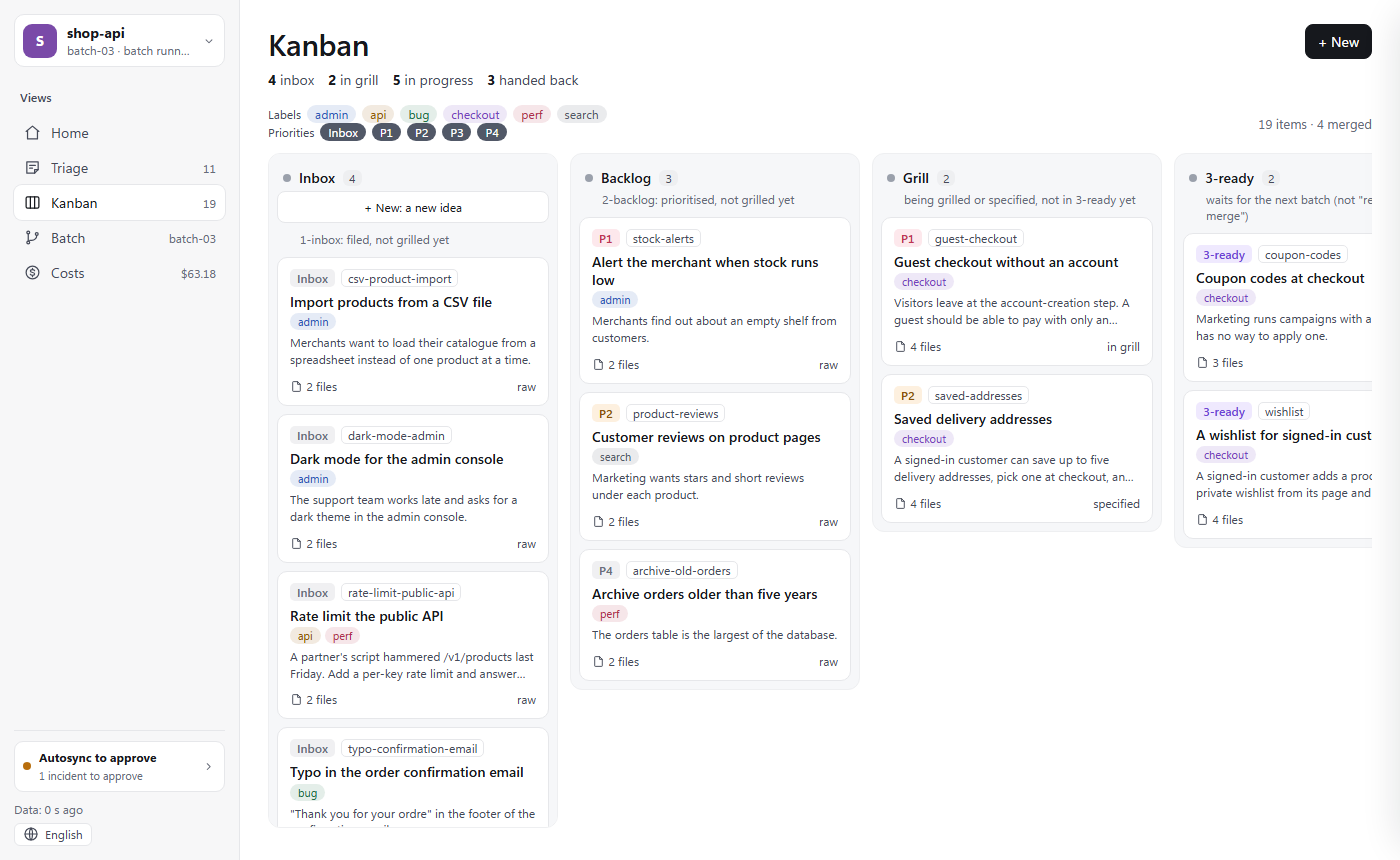
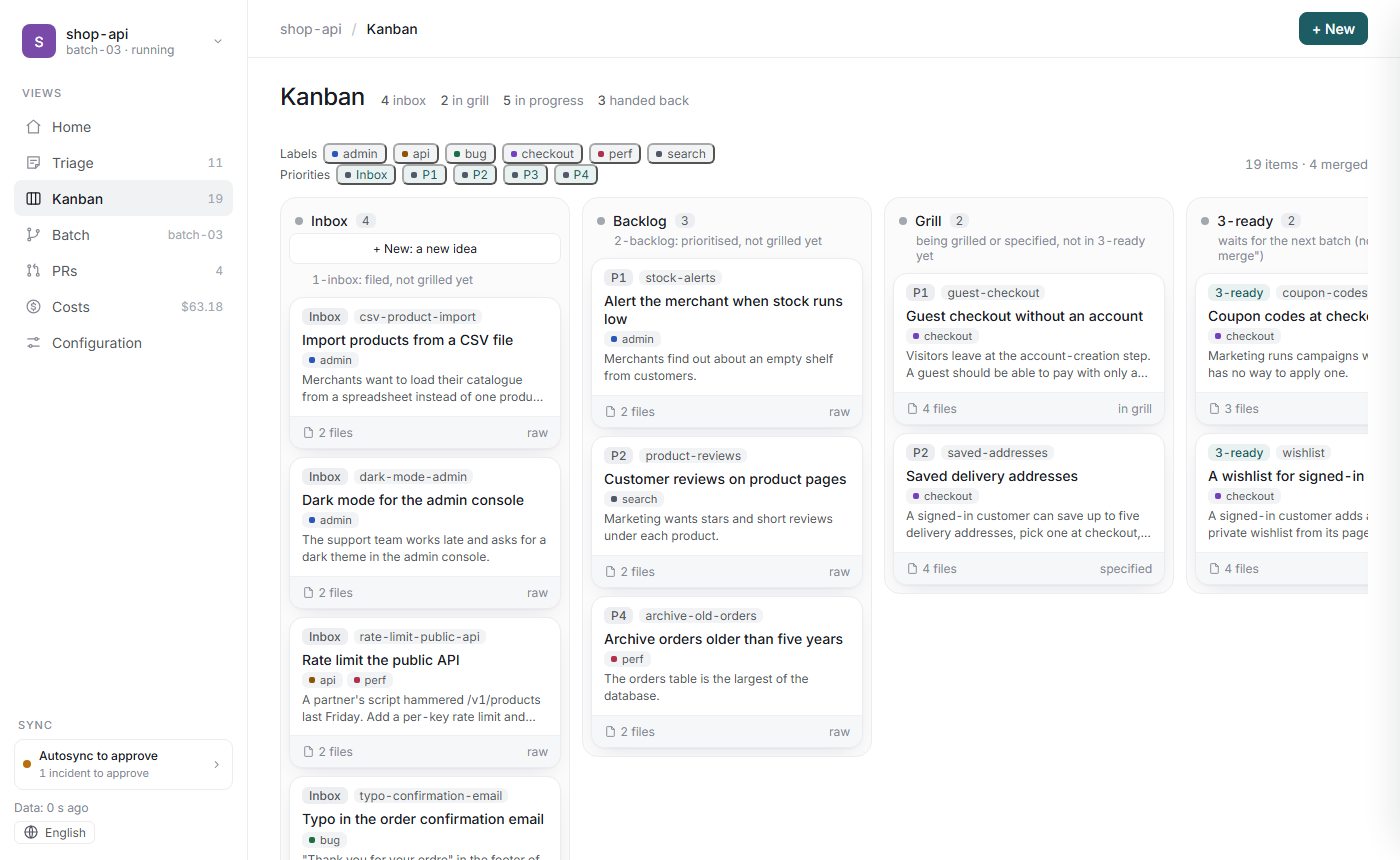
docs(board): describe the new web board look, retake its pictures and keep made-up paths in them

diff --git a/scripts/docs_screenshots.py b/scripts/docs_screenshots.py
@@ -161,11 +161,16 @@ def shot(page: Page, name: str, size: str) -> None:
 
 def fix_surface_path(route: Route) -> None:
     """The board shows the surface's path, a temporary folder of this machine: the pictures show
-    this made-up path instead, the same on every run and revealing nothing of the machine. Only
-    `served` of the board's answer is replaced; the projects' paths are the demo's own."""
+    this made-up path instead, the same on every run and revealing nothing of the machine. In the
+    board's answer, `served`, `served_origin` and each project's `repo_path` and `origin` are
+    replaced; the projects' `folder` and `repo` are the demo's own, relative."""
     response = route.fetch()
     body = response.json()
     body["served"] = SURFACE_SHOWN
+    body["served_origin"] = "https://github.com/demo/planning-surface"
+    for project in body.get("projects", []):
+        project["repo_path"] = f"/home/demo/{project['id']}"
+        project["origin"] = f"https://github.com/demo/{project['id']}"
     route.fulfill(response=response, json=body)
 
 

diff --git a/docs/web-board.md b/docs/web-board.md
@@ -9,7 +9,7 @@ For the other board, the pane in Claude Code, see [boards](boards.md). To start 
 
 ## The views
 
-The left bar lists the views and the project. On a phone the bar becomes a bottom bar and the project picker sits at the top. A planning surface with several projects makes the picker's first entry the surface itself, by its name and its path, with "Planning surface · N projects" under them; a single project has no such entry.
+The breadcrumb at the top names where you are, and stays in place when the page scrolls. The left bar lists the views and the project. On a phone the bar becomes a bottom bar and the project picker sits at the top. A planning surface with several projects makes the picker's first entry the surface itself, by its name and its path, with "Planning surface · N projects" under them; a single project has no such entry.
 
 ![The project picker, open](web-board/picker-pc.png)
 
@@ -29,14 +29,13 @@ A project's Home answers "what needs me?": five tiles (**To review**, the PRs re
 
 ### Batch
 
-![The batch: levels, PRs to review, PRs in draft and merged PRs](web-board/batch-pc.png)
+![The batch: levels, PRs to review and PRs in draft](web-board/batch-pc.png)
 
-The batch in a few numbers (its id, the slots, the CRs working, the CRs handed back ready, the cost against the budget), then the CRs as boxes in levels: a CR sits one level after the CRs it waits for, and an arrow goes from a CR to the one that waits for it. The colour is the state: blocked, working, **ready to merge**, **PR in draft**, **ready locally** (done, no PR yet), waits, queued, merged. Hover a CR to see what it waits for and what waits for it; a click opens its folder.
+The batch in four figures (the slots, the CRs working, the CRs handed back ready, what was spent), then the CRs as boxes in levels, "Level 1", "Level 2" and so on: a CR sits in the level below the CRs it waits for, and an arrow goes from a CR to the one that waits for it. Each CR stays in one place for its whole life, merged ones included. The state is a badge in the CR's top right corner, its icon and word in the state's colour: blocked, working, **ready to merge**, **PR in draft**, **ready locally** (done, no PR yet), waits, queued, merged; its legend is in the "States and arrows" tooltip. Hover a CR to see what it waits for and what waits for it; a click opens its folder.
 
-The right column follows the batch's mode (stack, series or parallel, named in the bar under the numbers):
+The right column is one column, the PRs to review then the drafts, and follows the batch's mode (stack, series or parallel, named in the bar under the numbers):
 
 - **PRs to review**: the PRs ready to merge now. In a stack, only a fix CR, which sits on the default branch outside the stack, is to review while the stack is not built and verified on the forge; the others are listed as **PRs in draft, not to merge yet**, with their place in the stack (1 is the bottom, not a merge order). A click on a PR opens it on the forge; the folder icon opens the CR's folder.
-- **Merged PRs**: for information, this batch's and the earlier batches'.
 
 ### PRs
 

diff --git a/CONTRIBUTING.md b/CONTRIBUTING.md
@@ -315,7 +315,8 @@ in the `justfile`) and `tests/test_code_targets.py` enforce:
   Biome has no such rule), every colour in `css/tokens.css` and a computed width or colour passed as
   a custom property.
 - **Page:** no inline script or style, no `style=` and no `on...=` attribute, no resource loaded
-  from outside (the policy allows `self` only), every link, script and import relative and inside
+  from outside (the policy allows `self` only; the page loads its own font from `web/fonts/`,
+  `font-src 'self'`, and no font from outside), every link, script and import relative and inside
   `web/`, `innerHTML` set in `js/core/dom.js` only.
 - **Words:** one file per language under `js/i18n/`, the same keys in each (a test checks it); a
   language is added by one file and one line in `js/model/words.js`.

diff --git a/README.md b/README.md
@@ -211,7 +211,7 @@ improves the procedure, which stays written and maintained in the project.
 On any device, `chantier board` serves the CR board as a web page: the live batches, what waits
 for you, the backlog and the merged CRs, and it lets you triage the backlog from your phone.
 
-![The web board: a batch in stack mode, its CRs by level, the PRs to review and the merged PRs](docs/web-board/batch-pc.png)
+![The web board: a batch in stack mode, its CRs by level, the PRs to review and the drafts](docs/web-board/batch-pc.png)
 
 *The web board with a batch running, on a made-up project.* On Claude Code, a read-only pane shows
 the same record beside it; open it with `/chantier-board`, or by loading the Chief of Staff. See
